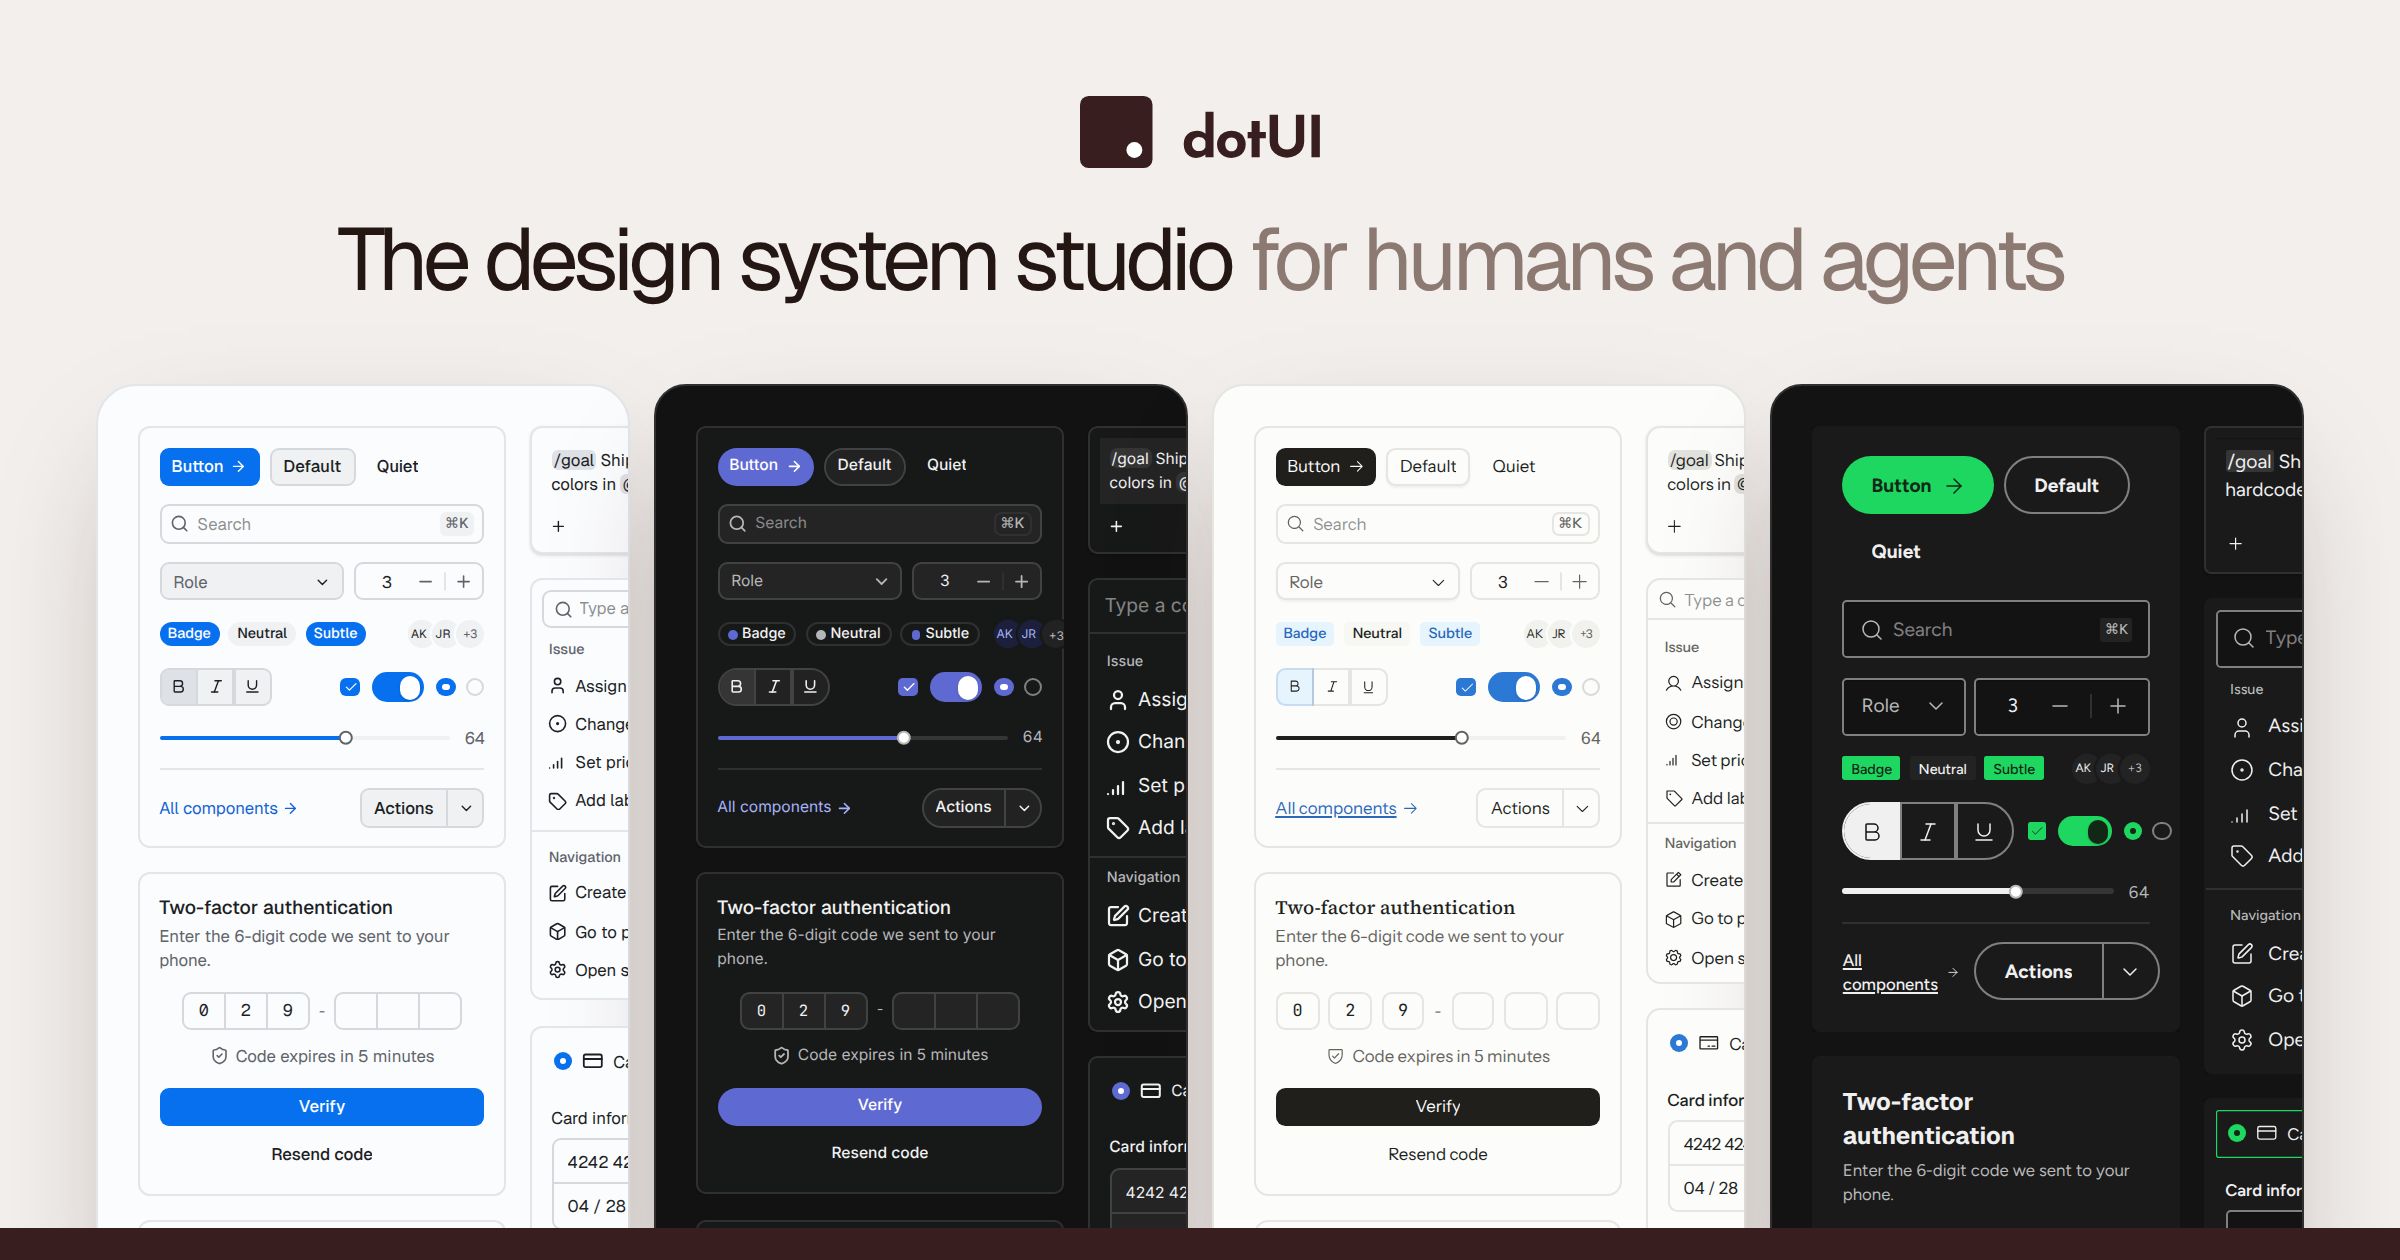
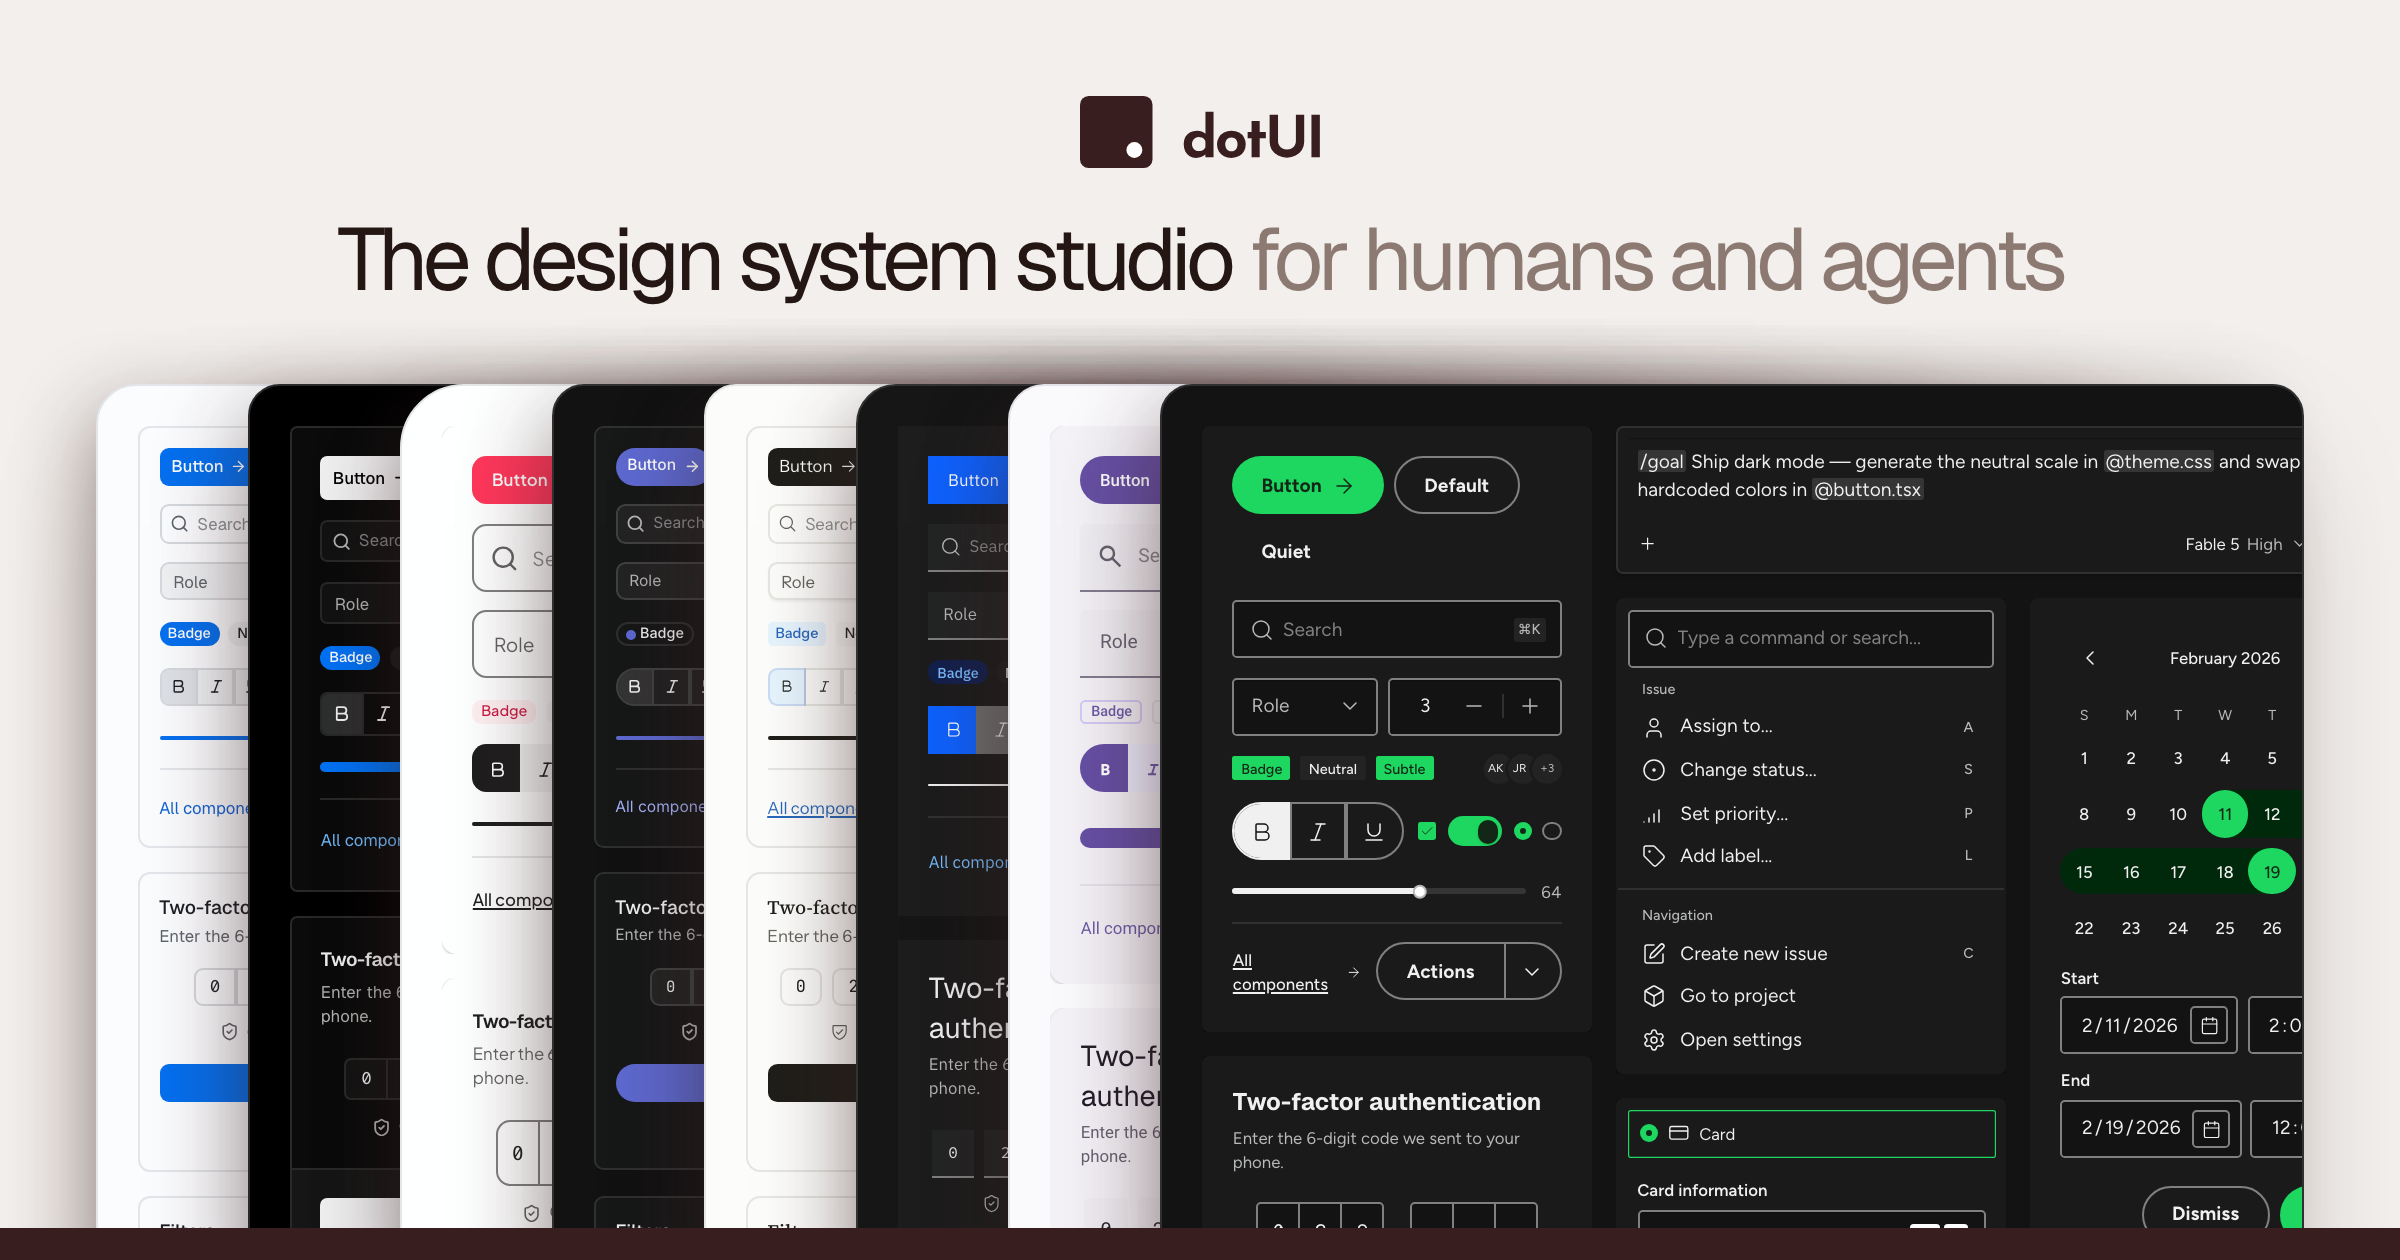
feat(brand): cascade eight presets on the cover

diff --git a/www/src/modules/marketing/cover.tsx b/www/src/modules/marketing/cover.tsx
@@ -9,14 +9,24 @@ import { resolvePreset } from "@/modules/presets"
 
 const PRESETS: { preset: string; mode: "light" | "dark" }[] = [
   { preset: "origin", mode: "light" },
+  { preset: "vercel", mode: "dark" },
+  { preset: "airbnb", mode: "light" },
   { preset: "linear", mode: "dark" },
   { preset: "claude", mode: "light" },
+  { preset: "carbon", mode: "dark" },
+  { preset: "material3", mode: "light" },
   { preset: "spotify", mode: "dark" },
 ]
 
+const STEP = 76
+
 const [lead, rest] = siteConfig.tagline.split(/ (?=for )/)
 
-function PresetContainer({ preset, mode }: (typeof PRESETS)[number]) {
+function PresetContainer({
+  preset,
+  mode,
+  index,
+}: (typeof PRESETS)[number] & { index: number }) {
   const designSystem = resolvePreset(preset)
   return (
     <DesignSystemProvider
@@ -28,8 +38,14 @@ function PresetContainer({ preset, mode }: (typeof PRESETS)[number]) {
       color={designSystem.color}
       icons={designSystem.icons}
     >
-      <div className="h-[480px] flex-1 overflow-hidden rounded-2xl border border-border bg-bg p-5 shadow-[0_24px_64px_-24px_rgb(56_30_30/0.4)]">
-        <CardsGrid side={false} className="w-[960px] zoom-[0.6]" />
+      <div
+        style={{
+          left: index * STEP,
+          right: (PRESETS.length - 1 - index) * STEP,
+        }}
+        className="absolute top-0 h-[480px] overflow-hidden rounded-2xl border border-border bg-bg p-5 shadow-[-16px_0_40px_-16px_rgb(56_30_30/0.45),0_24px_64px_-24px_rgb(56_30_30/0.4)]"
+      >
+        <CardsGrid side={false} className="w-[1016px] zoom-[0.6]" />
       </div>
     </DesignSystemProvider>
   )
@@ -44,9 +60,9 @@ export function Cover() {
       <h1 className="mt-6 font-features-['calt'_0,'rlig','ss11'] text-[44px] leading-none font-normal tracking-[-0.06em] antialiased">
         {lead} <span className="text-[#8c7a72]">{rest}</span>
       </h1>
-      <div className="mt-10 flex w-full gap-3 px-12">
-        {PRESETS.map((p) => (
-          <PresetContainer key={p.preset} {...p} />
+      <div className="relative mx-12 mt-10 flex-1 self-stretch">
+        {PRESETS.map((p, i) => (
+          <PresetContainer key={p.preset} {...p} index={i} />
         ))}
       </div>
       <div className="absolute inset-x-0 bottom-0 z-10 h-4 bg-[#381e1e]" />
